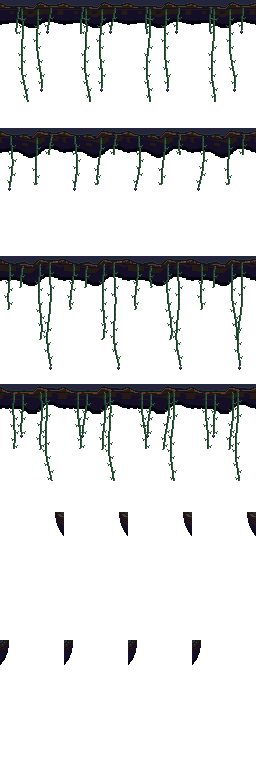
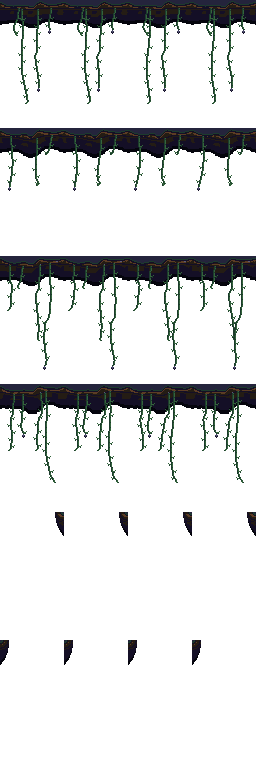
island_underside.png: vines kink and curl, most end in a small leaf (Theme Discussion: near-straight vines read stiff)
About half the vines get a kink partway down, some a hook at the end; a dead dream-bud or a small tip leaf on most. Vines stay inside their tile. All 4 acts, act 4 stays dull. Same layout.

diff --git a/Project_T/tools/environment_art/heartwood_grounds.html b/Project_T/tools/environment_art/heartwood_grounds.html
@@ -1833,19 +1833,23 @@ function islandUnderside(A, row, f) {
     if (hash(k, 1, s) < .12) continue;
     const x0 = 9 + Math.floor((k + hash(k, 2, s) * .8) * 11.5), len = 18 + Math.pow(hash(k, 3, s), 1.5) * 90, ph = hash(k, 4, s) * 6.28;
     const y0 = Math.round(LIP_W + lipWob(x0, v, false)) - 1, amp = 1 + len / 40;
+    // Not stiff lines (Theme Discussion): about half get a kink partway down, some a curl at the end.
+    const kinkAt = len * (.3 + hash(k, 8, s) * .4), kink = hash(k, 9, s) < .55 ? (hash(k, 10, s) < .5 ? -3 : 3) : 0;
+    const hook = hash(k, 11, s) < .45 ? (hash(k, 12, s) < .5 ? -3 : 3) : 0;
+    const curl = i => kink * clamp((i - kinkAt) / 6, 0, 1) + hook * Math.pow(clamp((i - (len - 8)) / 8, 0, 1), 2);
     let px = x0, py = y0;
     for (let i = 0; i < len && y0 + i < T * 2 - 5; i++) {
-      const t = i / len, sway = Math.round(amp * Math.pow(t, 1.5) * Math.sin(f * Math.PI / 2 + ph) + Math.sin(i * .07 + ph) * 3 * t);
-      px = x0 + sway; py = y0 + i;
+      const t = i / len, sway = Math.round(amp * Math.pow(t, 1.5) * Math.sin(f * Math.PI / 2 + ph) + Math.sin(i * .07 + ph) * 3 * t + curl(i));
+      px = clamp(x0 + sway, 3, 59); py = y0 + i;  // never into the next tile
       L.set(px, py, vine[0]); L.set(px + 1, py, i % 5 === 1 ? vine[0] : vine[1]);
       if (i > 5 && i % 7 === 3 && hash(k, i, s + 2) < .8) {  // a dull leaf
         const side = (i / 7 | 0) % 2 ? 2 : -1, dir = side > 0 ? 1 : -1;
         L.set(px + side, py, vine[2]); L.set(px + side + dir, py, vine[2]); L.set(px + side + dir, py + 1, vine[0]); L.set(px + side + dir * 2, py - 1, vine[2]);
       }
     }
-    if (hash(k, 5, s) < .35) {  // a dead dream-bud at its tip
+    if (hash(k, 5, s) < .3) {  // a dead dream-bud at its tip
       for (const [dx, dy, c] of [[0, 1, "#3c3c5c"], [-1, 2, "#3c3c5c"], [0, 2, "#5c5a78"], [1, 2, "#3c3c5c"], [0, 3, "#3c3c5c"], [-1, 3, "#140f26"], [1, 3, "#140f26"], [0, 4, "#140f26"]]) L.set(px + dx, py + dy, c);
-    } else if (hash(k, 6, s) < .5) { L.set(px - 1, py + 1, vine[2]); L.set(px, py + 1, vine[1]); }  // or a last leaf
+    } else if (hash(k, 6, s) < .75) { const dir = hash(k, 7, s) < .5 ? -1 : 1; L.set(px, py + 1, vine[1]); L.set(px + dir, py + 1, vine[2]); L.set(px + dir, py + 2, vine[2]); L.set(px + dir * 2, py + 2, vine[0]); }  // or a small leaf at its tip
   }
   return L;
 }
